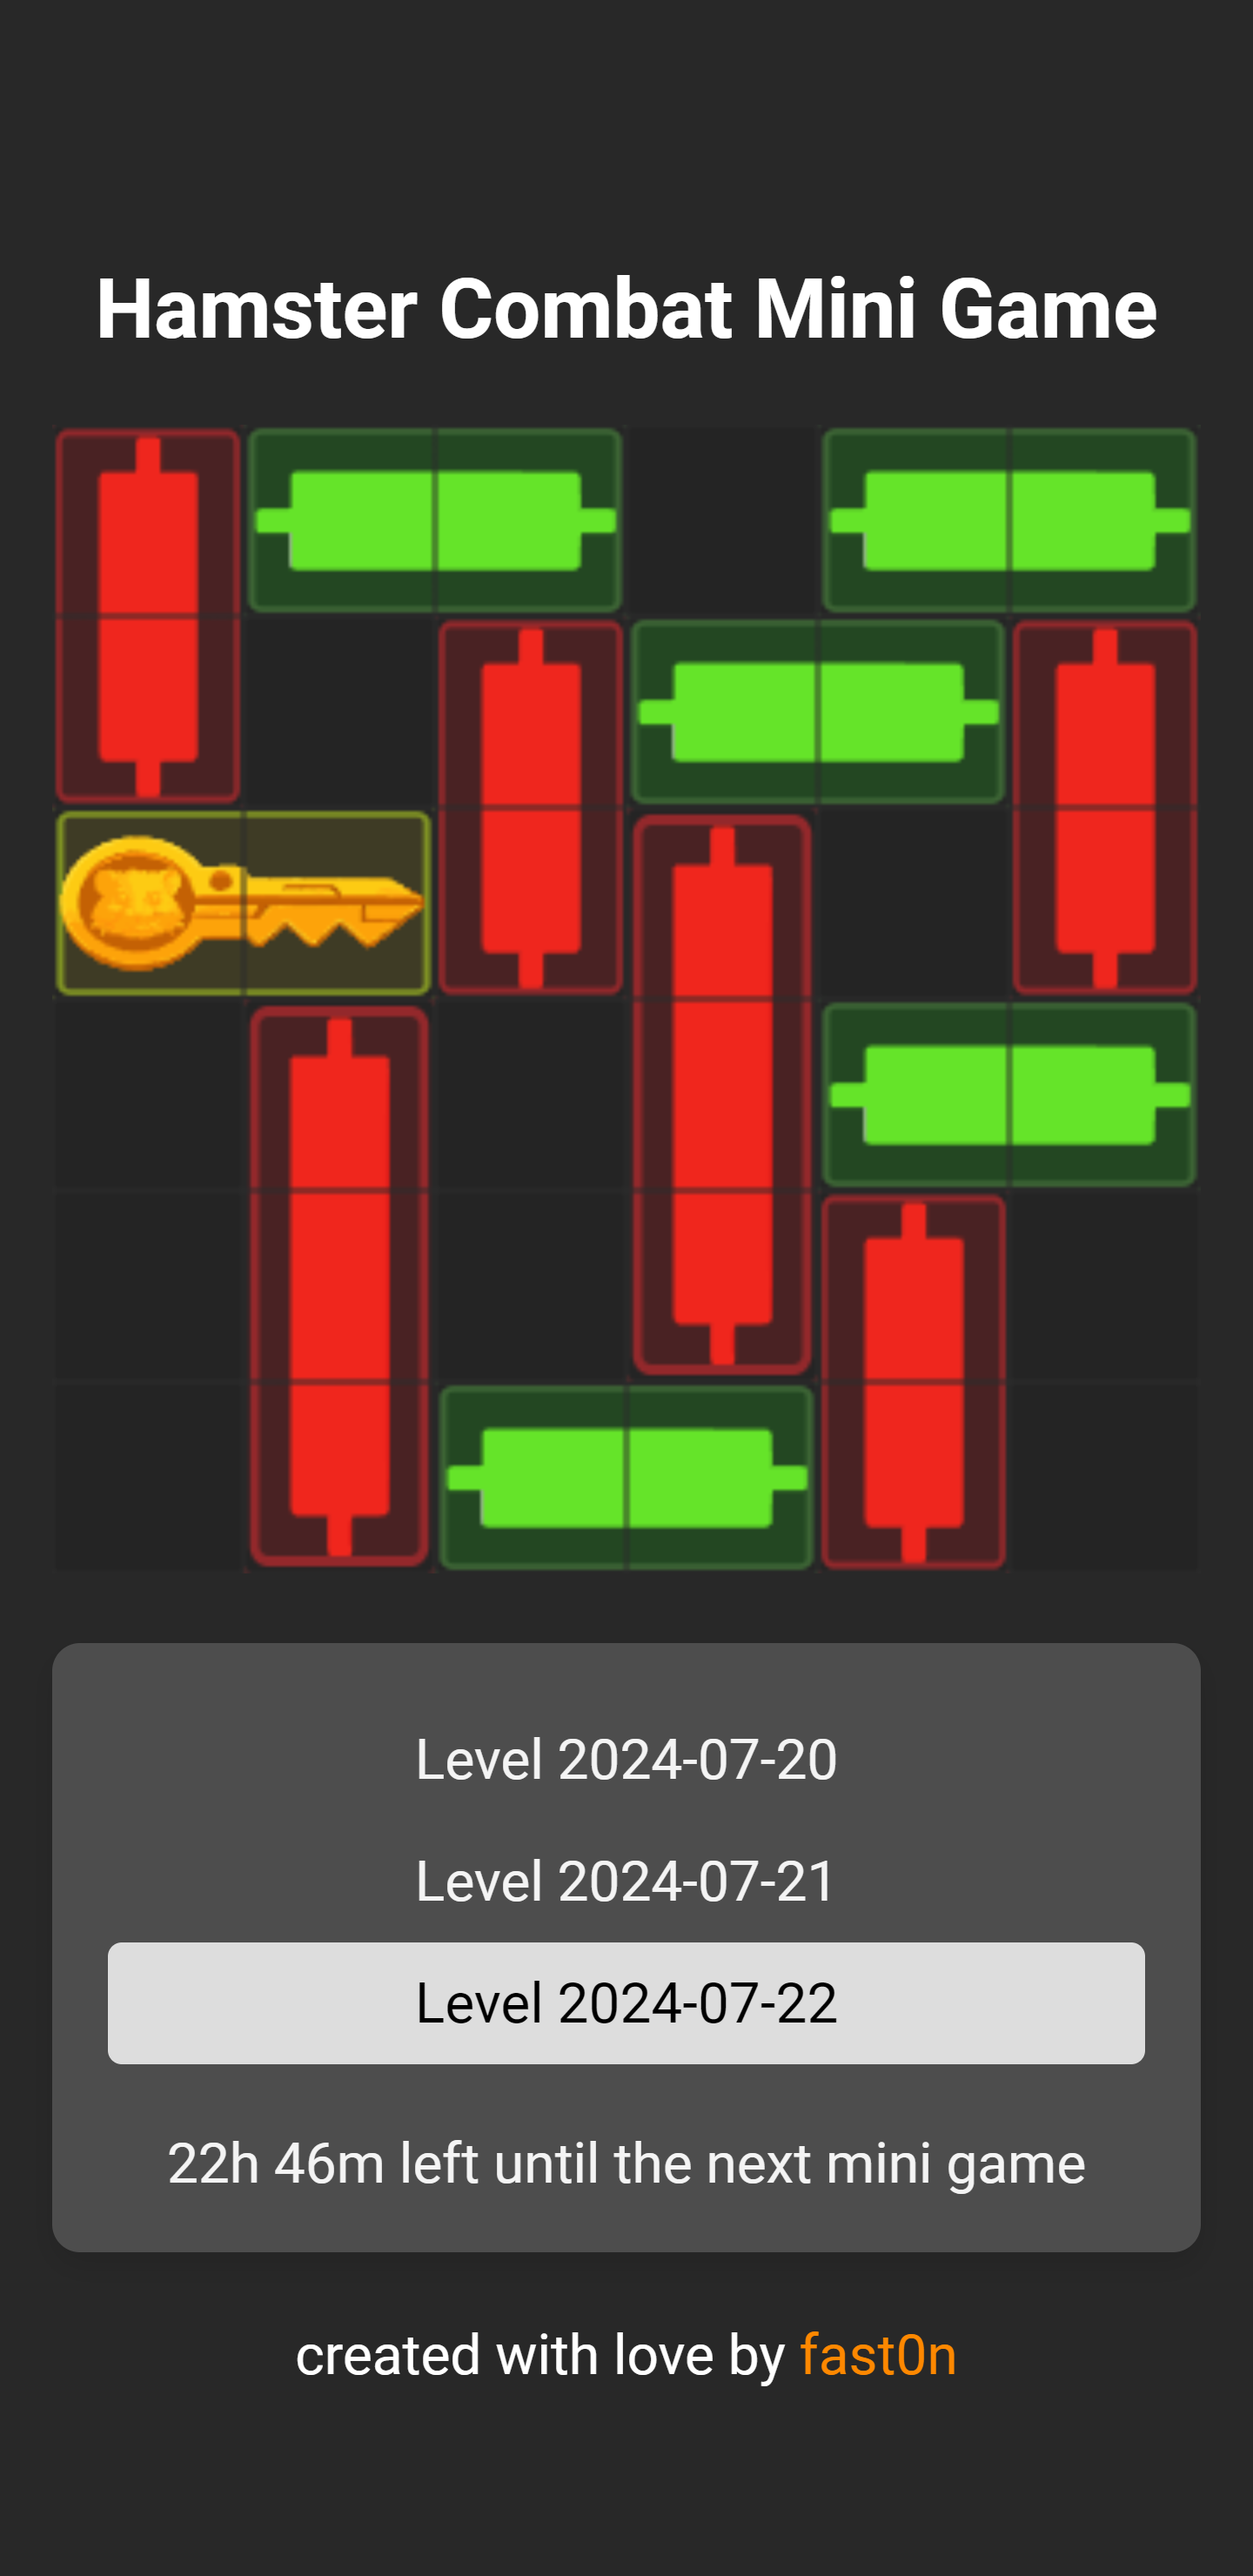
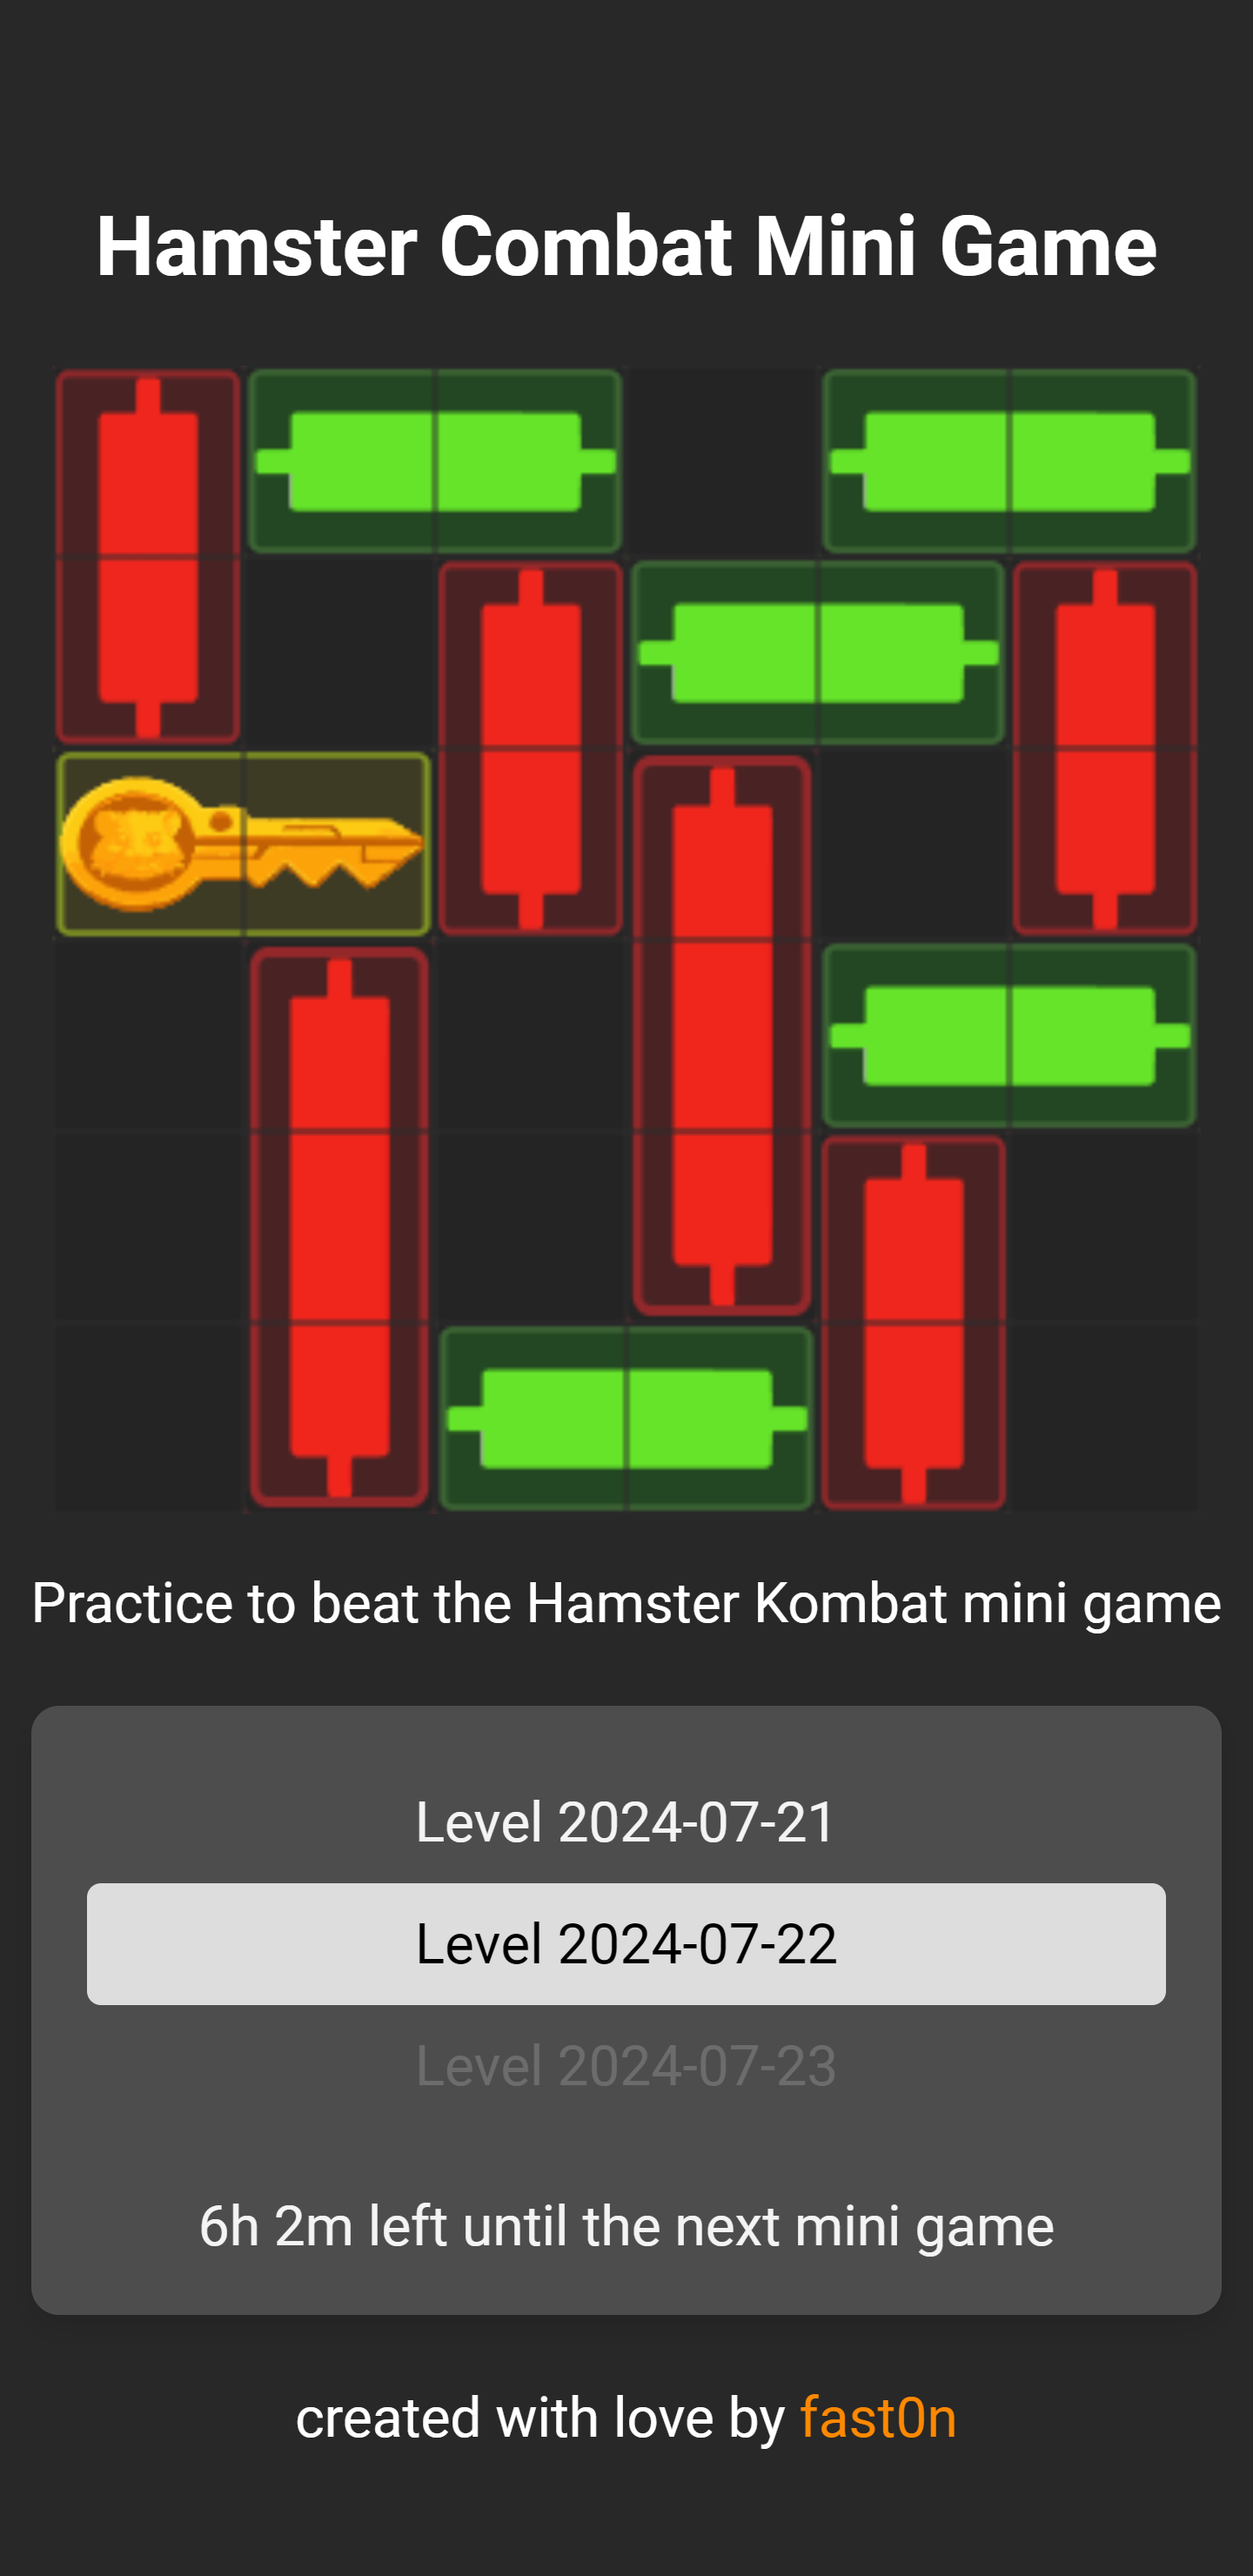
fix date level

diff --git a/script/script.js b/script/script.js
@@ -6,6 +6,55 @@ const bufferCtx = bufferCanvas.getContext('2d');
 const gridSize = 6;
 const cellSize = canvas.width / gridSize;
 
+document.addEventListener('DOMContentLoaded', function () {
+    function formatDate(date) {
+        const year = date.getFullYear();
+        const month = ('0' + (date.getMonth() + 1)).slice(-2);
+        const day = ('0' + date.getDate()).slice(-2);
+        return `${year}-${month}-${day}`;
+    }
+
+    function setLevel() {
+        // Ottenere le date di due giorni fa, ieri e oggi
+        const today = new Date();
+        const tomorrow = new Date(today);
+        const twoDaysAgo = new Date(today);
+
+
+        if (new Date().getHours() >= 22 || new Date().getHours() < 1) {
+            today.setDate(today.getDate() + 1);
+            tomorrow.setDate(today.getDate() + 1);
+            twoDaysAgo.setDate(today.getDate() - 1);
+        } else {
+            tomorrow.setDate(today.getDate() + 1);
+            twoDaysAgo.setDate(today.getDate() - 1);
+        }
+
+        // Formattare le date
+        const formattedToday_ = formatDate(today);
+        const formattedTomorrow_ = formatDate(tomorrow);
+        const formattedTwoDaysAgo_ = formatDate(twoDaysAgo);
+
+        const formattedToday = formatDate(today).replace(/-/g, '');
+        const formattedTomorrow = formatDate(tomorrow).replace(/-/g, '');
+        const formattedTwoDaysAgo = formatDate(twoDaysAgo).replace(/-/g, '');
+
+        // Creare gli elementi della lista
+        const levelList = document.getElementById('levelList');
+        levelList.innerHTML = `
+            <li data-level="${formattedTwoDaysAgo}">Level ${formattedTwoDaysAgo_}</li>
+            <li data-level="${formattedToday}" class="active" >Level ${formattedToday_}</li>
+            <li data-level="${formattedTomorrow}"class="disabled" >Level ${formattedTomorrow_}</li>
+
+            <br>
+            <div class="countdown" id="countdown"></div>
+        `;
+    }
+
+    setLevel();
+});
+
+
 
 document.addEventListener('DOMContentLoaded', (event) => {
     const levelItems = document.querySelectorAll('#levelList li');
@@ -13,15 +62,15 @@ document.addEventListener('DOMContentLoaded', (event) => {
     levelItems.forEach(item => {
         item.addEventListener('click', () => {
             const level = item.getAttribute('data-level');
-                // Carica dinamicamente il file JavaScript
-                const script = document.createElement('script');
-                script.src = `level/${level}.js`;
-                script.onload = () => {
-                    // Quando il file è caricato, ricarica il canvas
-                    drawGame();
-                };
-                document.head.appendChild(script);
-            
+            // Carica dinamicamente il file JavaScript
+            const script = document.createElement('script');
+            script.src = `level/${level}.js`;
+            script.onload = () => {
+                // Quando il file è caricato, ricarica il canvas
+                drawGame();
+            };
+            document.head.appendChild(script);
+
         });
     });
 });
@@ -43,46 +92,7 @@ document.addEventListener('DOMContentLoaded', () => {
 });
 
 
-// Funzione per ottenere la data in formato YYYY-MM-DD
-function formatDateSlash(date) {
-    const year = date.getFullYear();
-    const month = ('0' + (date.getMonth() + 1)).slice(-2);
-    const day = ('0' + date.getDate()).slice(-2);
-    return `${year}-${month}-${day}`;
-}
 
-function formatDate(date) {
-    const year = date.getFullYear();
-    const month = ('0' + (date.getMonth() + 1)).slice(-2);
-    const day = ('0' + date.getDate()).slice(-2);
-    return `${year}${month}${day}`;
-}
-
-// Ottenere le date di due giorni fa, ieri e oggi
-const today = new Date();
-const tomorrow = new Date(today);
-tomorrow.setDate(today.getDate() + 1);
-const twoDaysAgo = new Date(today);
-twoDaysAgo.setDate(today.getDate() - 1);
-
-// Formattare le date
-const formattedToday_ = formatDateSlash(today);
-const formattedTomorrow_ = formatDateSlash(tomorrow);
-const formattedTwoDaysAgo_ = formatDateSlash(twoDaysAgo);
-
-const formattedToday = formatDate(today);
-const formattedTomorrow = formatDate(tomorrow);
-const formattedTwoDaysAgo = formatDate(twoDaysAgo);
-
-// Creare gli elementi della lista
-const levelList = document.getElementById('levelList');
-levelList.innerHTML = `
-    <li data-level="${formattedTwoDaysAgo}">Level ${formattedTwoDaysAgo_}</li>
-    <li data-level="${formattedToday}">Level ${formattedToday_}</li>
-    <li data-level="${formattedTomorrow}" class="active">Level ${formattedTomorrow_}</li>
-    <br>
-    <div class="countdown" id="countdown"></div>
-`;
 
 
 const images = {};
@@ -195,11 +205,12 @@ function easeInOutCubic(t) {
 }
 
 let win = false;
+
 function animateMove(block, startX, startY, endX, endY, startTime) {
     function step(timestamp) {
         if (!startTime) startTime = timestamp;
         const elapsed = timestamp - startTime;
-        const progress = Math.min(elapsed , 1); // Modifica la durata qui
+        const progress = Math.min(elapsed, 1); // Modifica la durata qui
         const easedProgress = easeInOutCubic(progress);
 
         const dx = (endX - startX) * easedProgress;
@@ -220,7 +231,6 @@ function animateMove(block, startX, startY, endX, endY, startTime) {
             animationFrameId = null;
 
             if (block.color === 'key') {
-                console.log(`Key block coordinates: x=${block.x}, y=${block.y}`);
                 if (block.x === 4 && block.y === 2) {
                     canvas.removeEventListener('mousedown', startDrag);
                     canvas.removeEventListener('mousemove', drag);
@@ -228,7 +238,7 @@ function animateMove(block, startX, startY, endX, endY, startTime) {
                     canvas.removeEventListener('touchstart', startDrag);
                     canvas.removeEventListener('touchmove', drag);
                     canvas.removeEventListener('touchend', endDrag);
-                    if (win == false){
+                    if (win == false) {
                         alert('Hai vinto');
                         win = true
                     }
@@ -302,6 +312,5 @@ canvas.addEventListener('touchstart', startDrag);
 canvas.addEventListener('touchmove', drag);
 canvas.addEventListener('touchend', endDrag);
 
+
 loadSVGs(drawGame);
-
-

diff --git a/index.html b/index.html
@@ -17,11 +17,13 @@
             <h2>Hamster Combat Mini Game</h2>
         </header>
         <canvas id="gameCanvas" width="330" height="330"></canvas>
+        <p>Practice to beat the Hamster Kombat mini game</p>
+
         <footer>
             <nav>
                 <ul id="levelList">
-                    <li data-level="20240720" class="active">Level 2024-07-20</li>
-                    <li data-level="20240721">Level 2024-07-21</li>
+                    <li data-level="20240720">Level 2024-07-20</li>
+                    <li data-level="20240721" class="active">Level 2024-07-21</li>
                     <li data-level="20240722" class="disabled">Level 2024-07-22</li>
                     <br>
                     <div class="countdown" id="countdown"></div>

diff --git a/README.md b/README.md
@@ -1,6 +1,6 @@
-# Hamster Kombat Mini Games
+# Hamster Kombat Mini Game
 [![Donate](https://img.shields.io/badge/Donate-PayPal-blue?style=flat-square)](https://paypal.me/fast0n) [![License](https://img.shields.io/github/license/Fast0n/HamsterCombatMiniGames)](https://github.com/Fast0n/HamsterCombatMiniGames/blob/master/LICENSE) 
 
-<kbd><img src='img/screen.png' alt='Hamster Kombat Mini Games' height='500'  /></kbd></a>
+<kbd><img src='img/screen.png' alt='Hamster Kombat Mini Game' height='500'  /></kbd></a>
 
 -----------------------------------------------------------------------------------
